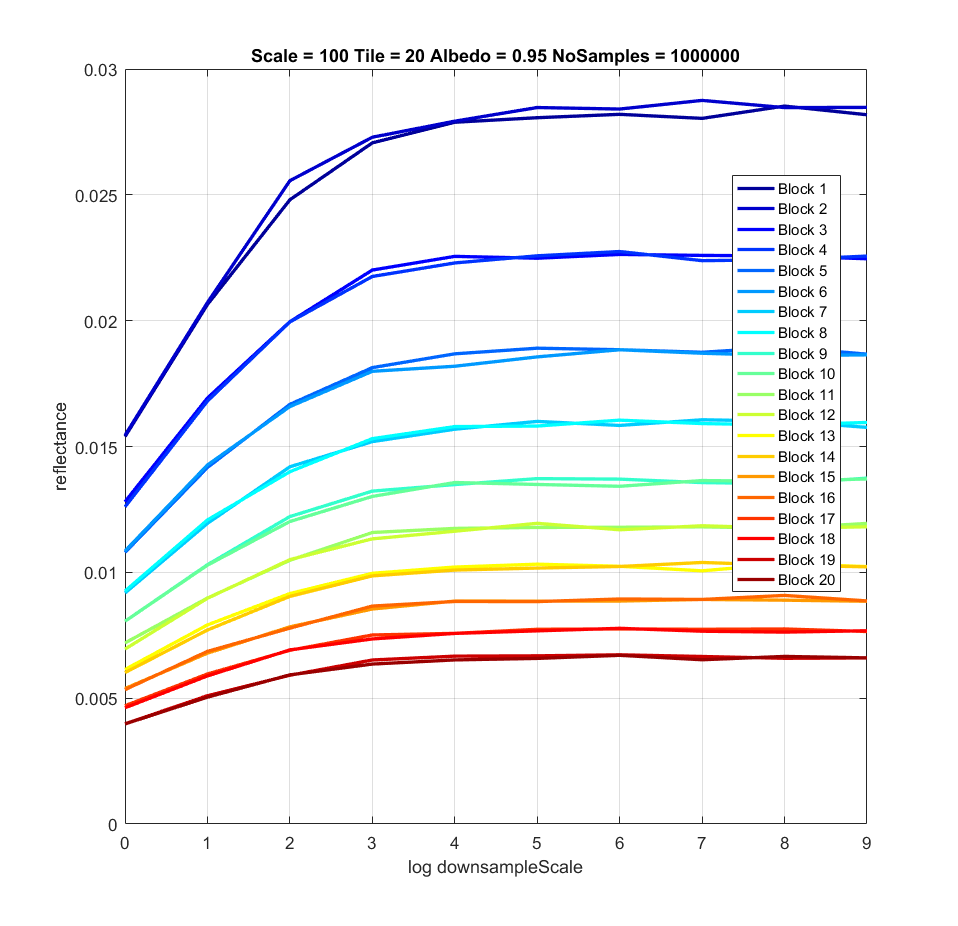
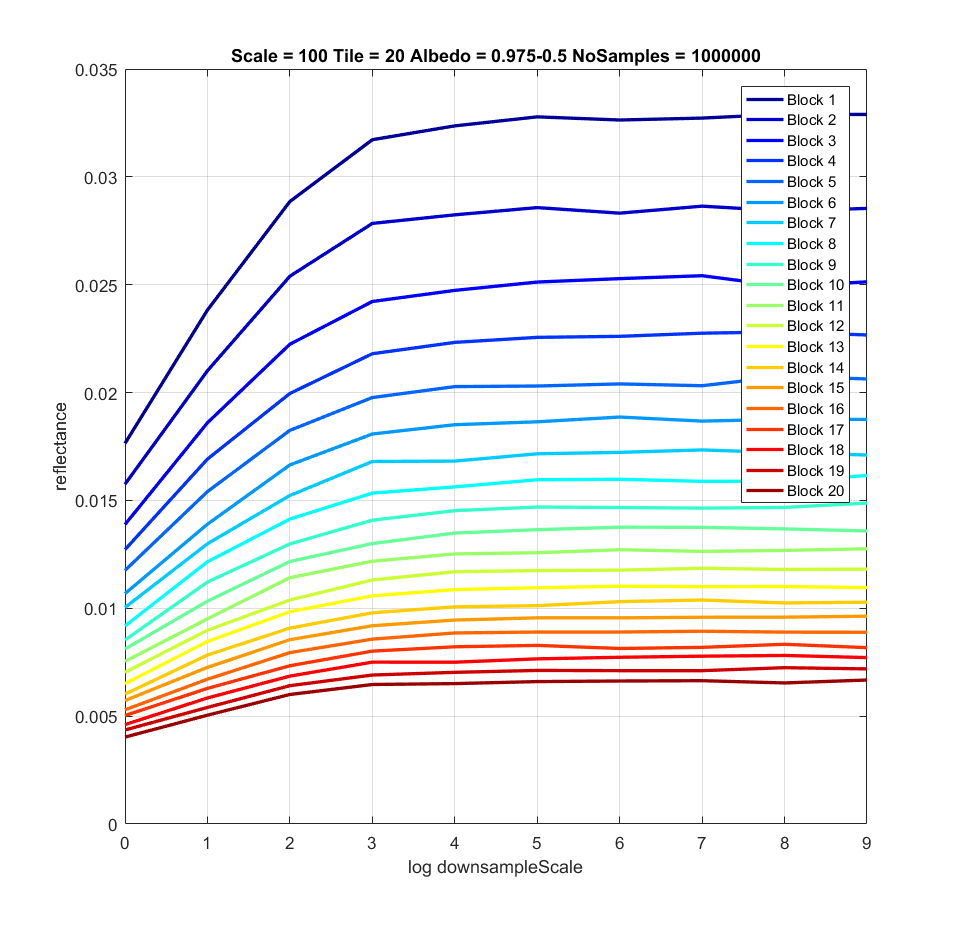
update

diff --git a/PHD/multires2DTest/index.md.html b/PHD/multires2DTest/index.md.html
@@ -25,14 +25,26 @@ Different frequency of $\sigma_T$, same Albedo
 
 Similar frequency of $\sigma_T$, different Albedo
 ---
-![Albedo: 0.95,0.95,0.9,0.9,$\dots$,0.5,0.5](results0125/sigT_rand.png width=\pagewidth)
+![Albedo: 0.975 $\rightarrow$ 0.5](results0125/sigT_rand.png width=\pagewidth)
 ![Blue $\rightarrow$ Red: Large $\alpha$ $\rightarrow$ small $\alpha$](results0125/albedo_diff/refl_rand_each.png width=\pagewidth) ![](results0125/albedo_diff/refl_rand_all.png width=\pagewidth)
 
 Different frequency of $\sigma_T$, different Albedo
 ---
-![Albedo: 0.95,0.95,0.9,0.9,$\dots$,0.5,0.5](results0125/sigT_combine1.png width=\pagewidth)
+![Albedo: 0.975 $\rightarrow$ 0.5](results0125/sigT_combine1.png width=\pagewidth)
 ![Blue $\rightarrow$ Red: Large $\alpha$ $\rightarrow$ small $\alpha$](results0125/albedo_diff/refl_combine1_each.png width=\pagewidth) ![](results0125/albedo_diff/refl_combine1_all.png width=\pagewidth)
-![Optimize](results0125/albedo_diff/refl_combine1_optimize_each.png width=\pagewidth)
+
+Albedo Clustering
+---
+![0.975 $\rightarrow$ 0.75](results0125/test_clusterAlbedo/left.png width=\pagewidth) ![0.725 $\rightarrow$ 0.5](results0125/test_clusterAlbedo/right.png width=\pagewidth)
+![](results0125/test_clusterAlbedo/refl_left.png width=\pagewidth) ![](results0125/test_clusterAlbedo/refl_right.png width=\pagewidth)
+![Optimized](results0125/test_clusterAlbedo/refl_left_optimize.png width=\pagewidth) ![](results0125/test_clusterAlbedo/refl_right_optimize.png width=\pagewidth)
+
+Frequency Clustering
+---
+![High frequency](results0125/test_clusterFreq/left.png width=\pagewidth) ![Low frequency](results0125/test_clusterFreq/right.png width=\pagewidth)
+![](results0125/test_clusterFreq/refl_left.png width=\pagewidth) ![](results0125/test_clusterFreq/refl_right.png width=\pagewidth)
+![Optimized](results0125/test_clusterFreq/refl_left_optimize.png width=\pagewidth) ![](results0125/test_clusterFreq/refl_right_optimize.png width=\pagewidth)
+
 
 2017.01.23
 ===
